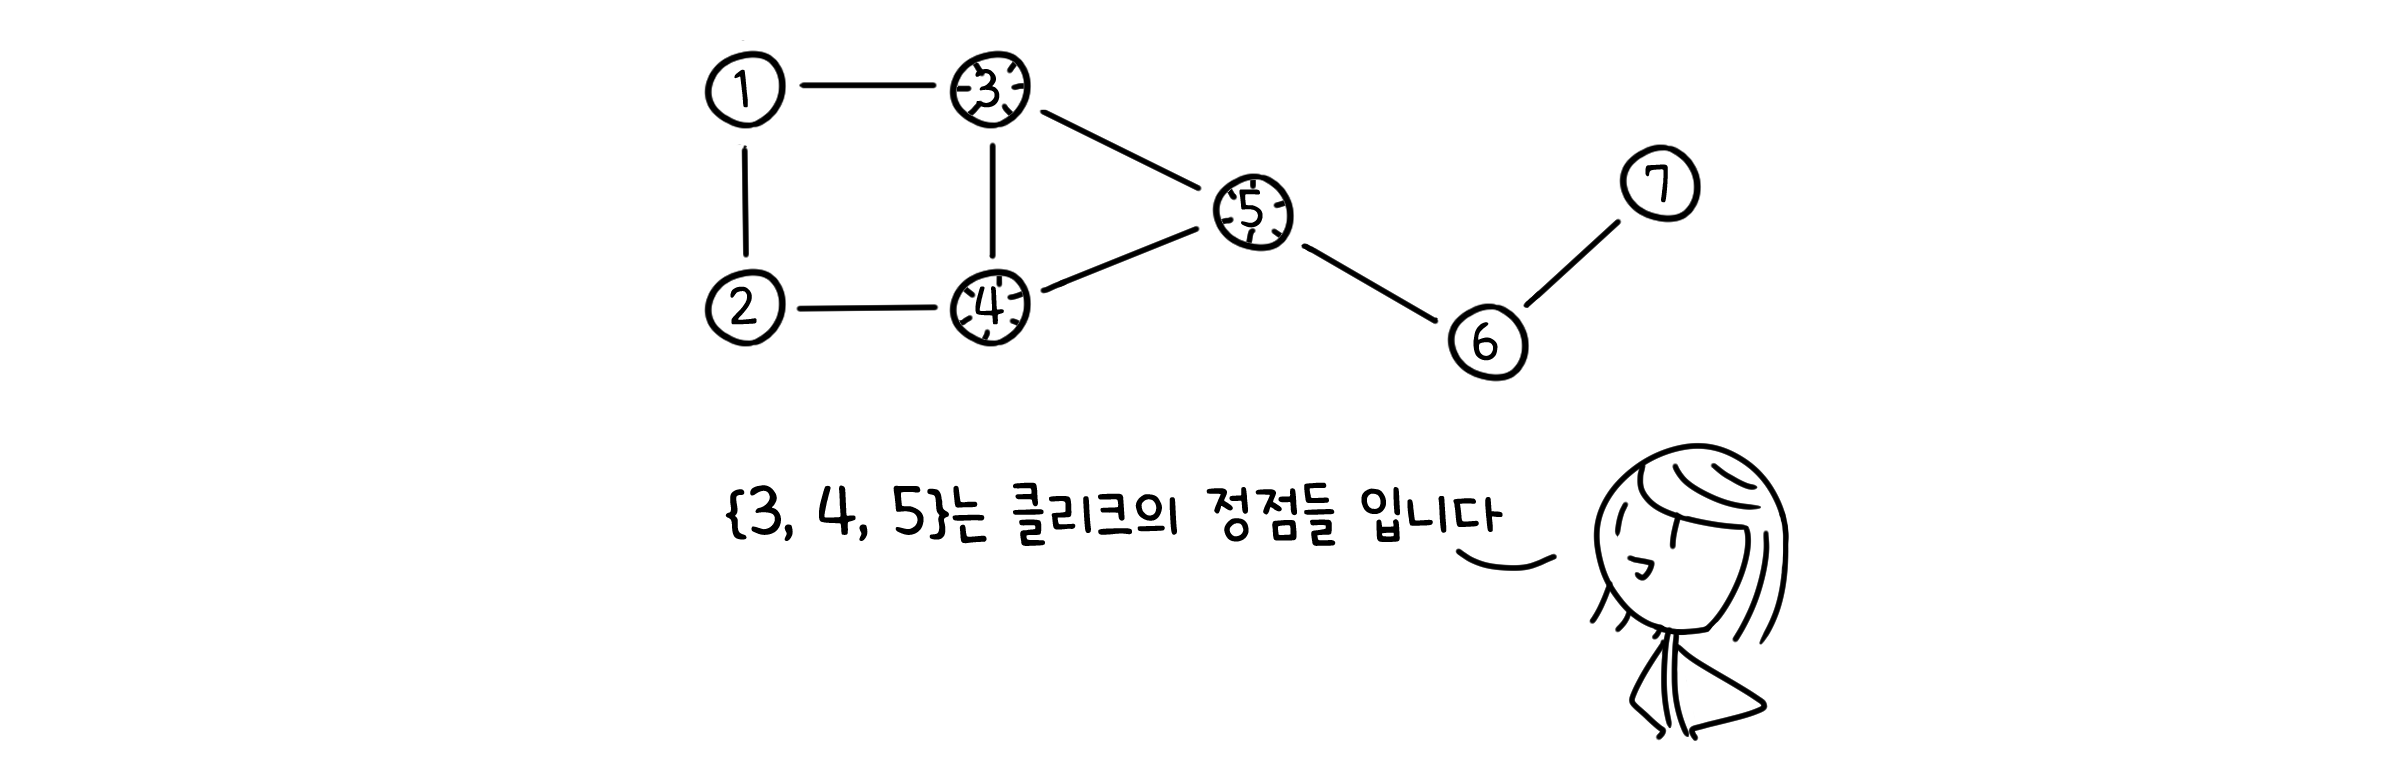
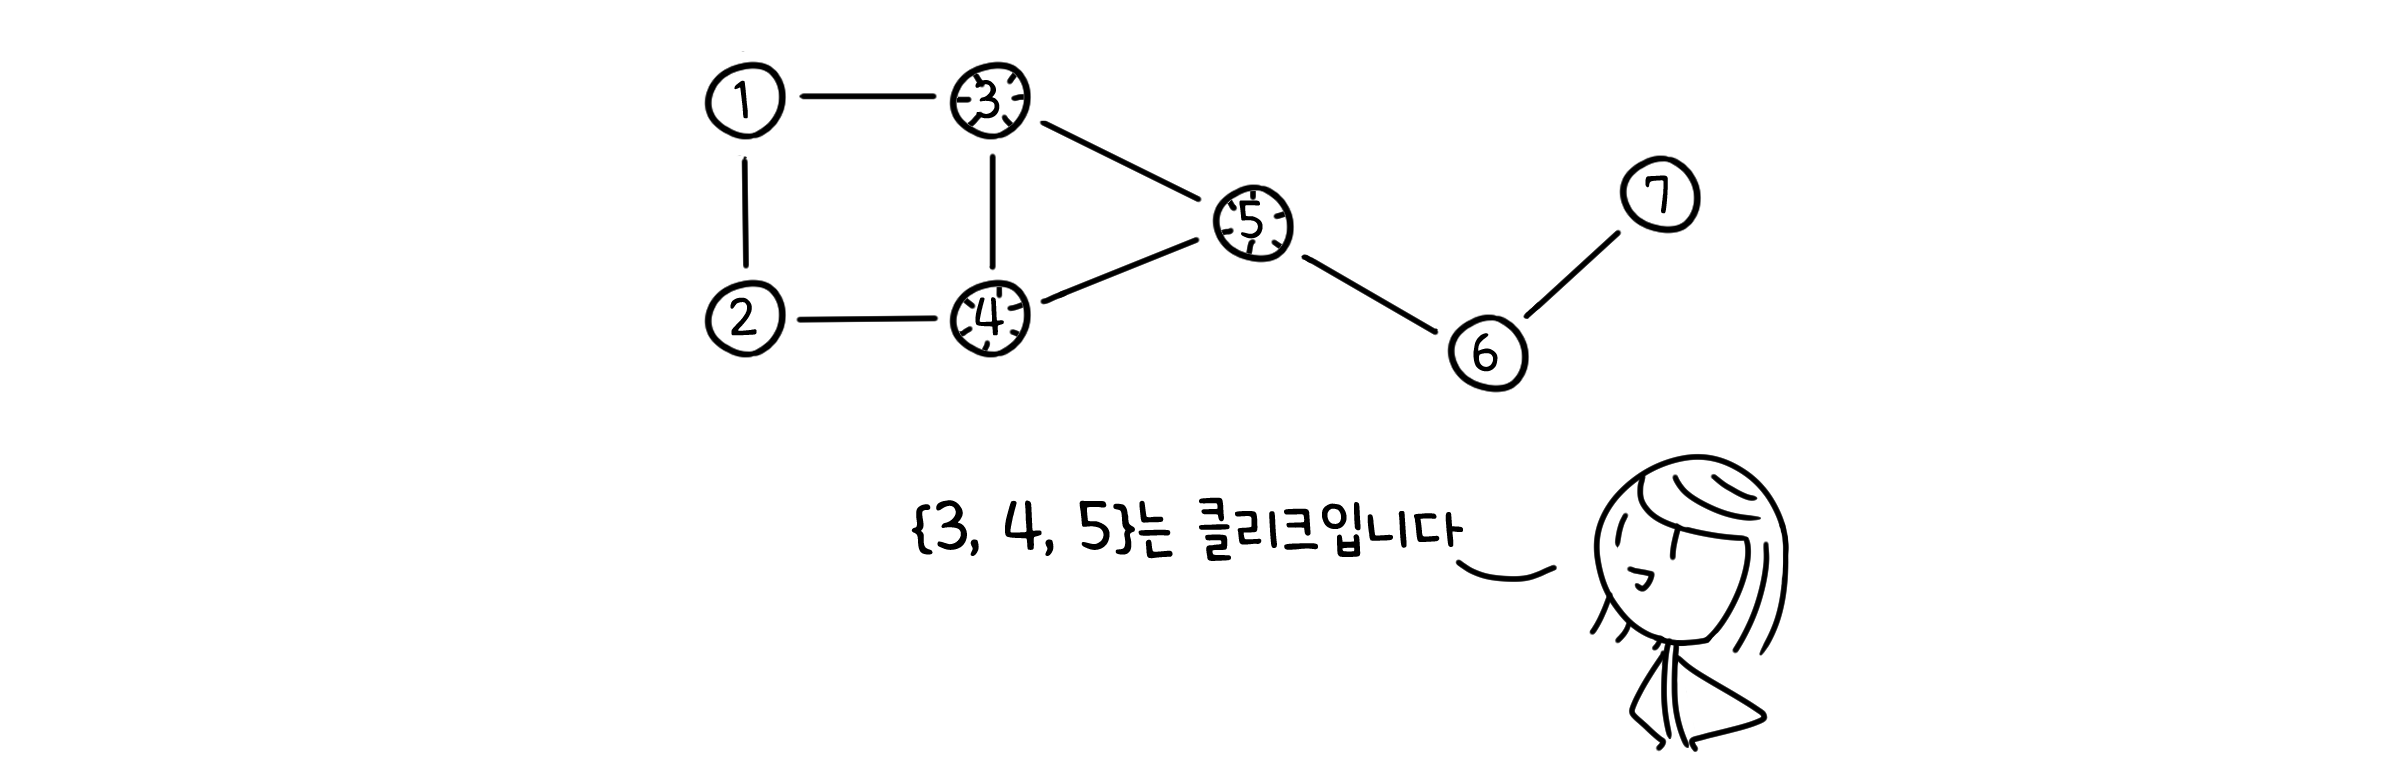
fix: post cm301 14 clique-indset

diff --git a/_posts/2026-03-20-cm301-14.md b/_posts/2026-03-20-cm301-14.md
@@ -1,5 +1,5 @@
 ---
-title: '[CM301] 14. NP-hard: 최적화 문제 (Optimization problem)'
+title: '[CM301] 14. NP-hard: 최적화 문제 I (Optimization problem I)'
 description: ''
 author: Doun
 date: 2026-03-14 09:00:00 +0900
@@ -11,7 +11,7 @@ mermaid: true
 image:
   path: /assets/img/thumbnails/cm301/14.png
[1 lines of base64/hex data omitted]
-  alt: '[CM301] 14. NP-hard: 최적화 문제 (Optimization problem)'
+  alt: '[CM301] 14. NP-hard: 최적화 문제 I (Optimization problem I)'
 ---
 
 ## 결정 문제와 최적화 문제
@@ -93,7 +93,7 @@ $$\text{결정문제(DEC)} \leq_p \text{최적화문제(OPT)}$$
 
 ## 클리크 (Clique)
 
- &ensp;어떤 그래프 $G=(V, E)$의 하위 그래프 $G'=(V',E')$가 모든 점이 서로 연결되어 있는 **완전 그래프(Complete Graph)**라면, $G'$를 **클리크(Clique)**라고 부릅니다. 바로 전에 보았던 독립 집합과는 정반대의 개념이라고 볼 수 있습니다.
+ &ensp;어떤 그래프 $G=(V, E)$의 하위 그래프 $G'=(V',E')$가 모든 점이 서로 연결되어 있는 **완전 그래프(Complete Graph)**라면, $V'$를 **클리크(Clique)**라고 부릅니다. 바로 전에 보았던 독립 집합과는 정반대의 개념이라고 볼 수 있습니다.
 
 <img src="{{ 'assets/img/illustration/cm301/14_10.png' | absolute_url }}" alt="image10" class="post" />
 
@@ -101,12 +101,12 @@ $$\text{결정문제(DEC)} \leq_p \text{최적화문제(OPT)}$$
 
 ### 결정 문제
 
- 이 최적화 문제는 다음과 같은 결정 문제로 바꿀 수 있습니다.
+ &ensp;이 최적화 문제는 다음과 같은 결정 문제로 바꿀 수 있습니다.
 
 > **DEC(Clique):** 주어진 그래프 $G=(V, E)$에서 점의 개수가 $k$ 이상인 클리크가 존재하는가?
 {: .prompt-theorem }
 
- &ensp;이 문제는 NP입니다. 점의 개수가 $k$ 이상이 되는 하위 그래프를 준다면, 정말로 그 그래프가 완전 그래프 인지는 다항 시간 안에 쉽게 확인할 수 있기 때문입니다.
+ &ensp;이 문제는 NP입니다. 점의 개수가 $k$ 이상이 되는 정점의 집합 $W$를 준다면, 정말로 그 그래프가 완전 그래프 인지는 다항 시간 안에 쉽게 확인할 수 있기 때문입니다.
 
 ### NP-hard임을 보이기
 
@@ -139,5 +139,17 @@ $$\text{결정문제(DEC)} \leq_p \text{최적화문제(OPT)}$$
  &ensp;결정문제 DEC(Clique)은 **NP**이고 **NP-hard**이므로 **NP-complete**입니다. 따라서, 최적화 문제 **Clique는 NP-hard**, 즉 *어렵습니다*.
 
 <img src="{{ 'assets/img/illustration/cm301/14_15.png' | absolute_url }}" alt="image15" class="post" />
+
+## 독립집합과 클리크
+
+ &ensp;두 문제는 서로 반대되는 개념입니다. 독립집합은 서로 연결되어서는 안되고, 클리크는 서로 튼튼하게 연결되어 있죠. 그렇기 때문에, **두 문제는 서로 환원할 수도 있습니다**.
+
+ &ensp;그래프 $G=(V, E)$에서 **선을 반전시킨 상보적인 그래프** $\bar{G}=(V, \bar{E})$를 생각해봅시다. 그러면 $G$에서 **클리크**를 이루던 점들은 $\bar{G}$에서 **독립집합**을 이루게 됩니다.
+
+<img src="{{ 'assets/img/illustration/cm301/14_16.png' | absolute_url }}" alt="image16" class="post" />
+ 
+ &ensp;그 반대로 마찬가지입니다. 그래프의 선을 반전시킴으로 한 문제를 다른 문제로 환원시킬 수 있게 되는 것입니다.
+
+<img src="{{ 'assets/img/illustration/cm301/14_17.png' | absolute_url }}" alt="image17" class="post" />
 
  &ensp;이번 절에서는 서로 정반대인 두 문제에 대한 최댓값 최적화 문제에 대해 다뤄보았습니다. 다음 절에서는 최솟값 최적화 문제들에 대해 다뤄보겠습니다.
